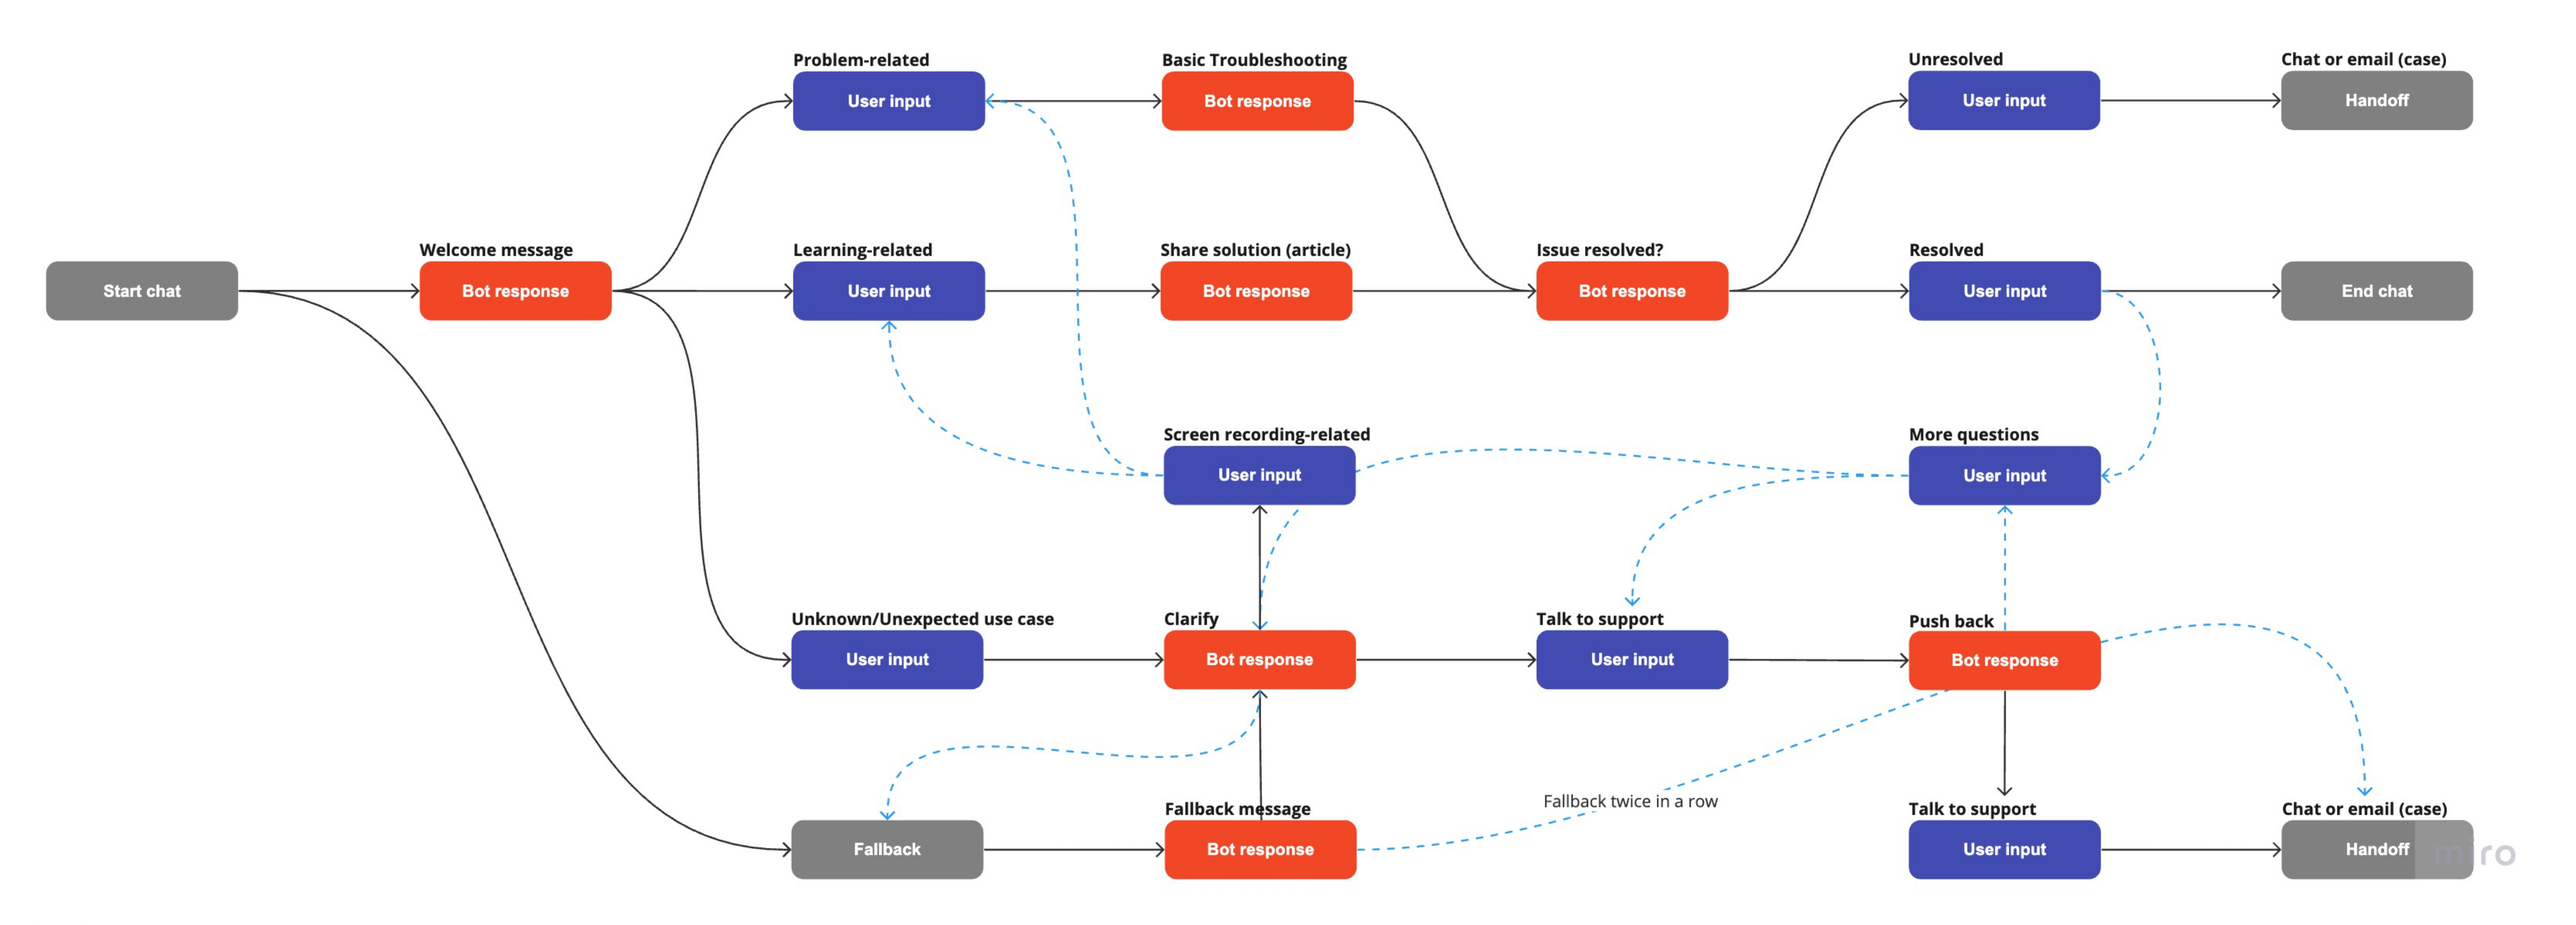
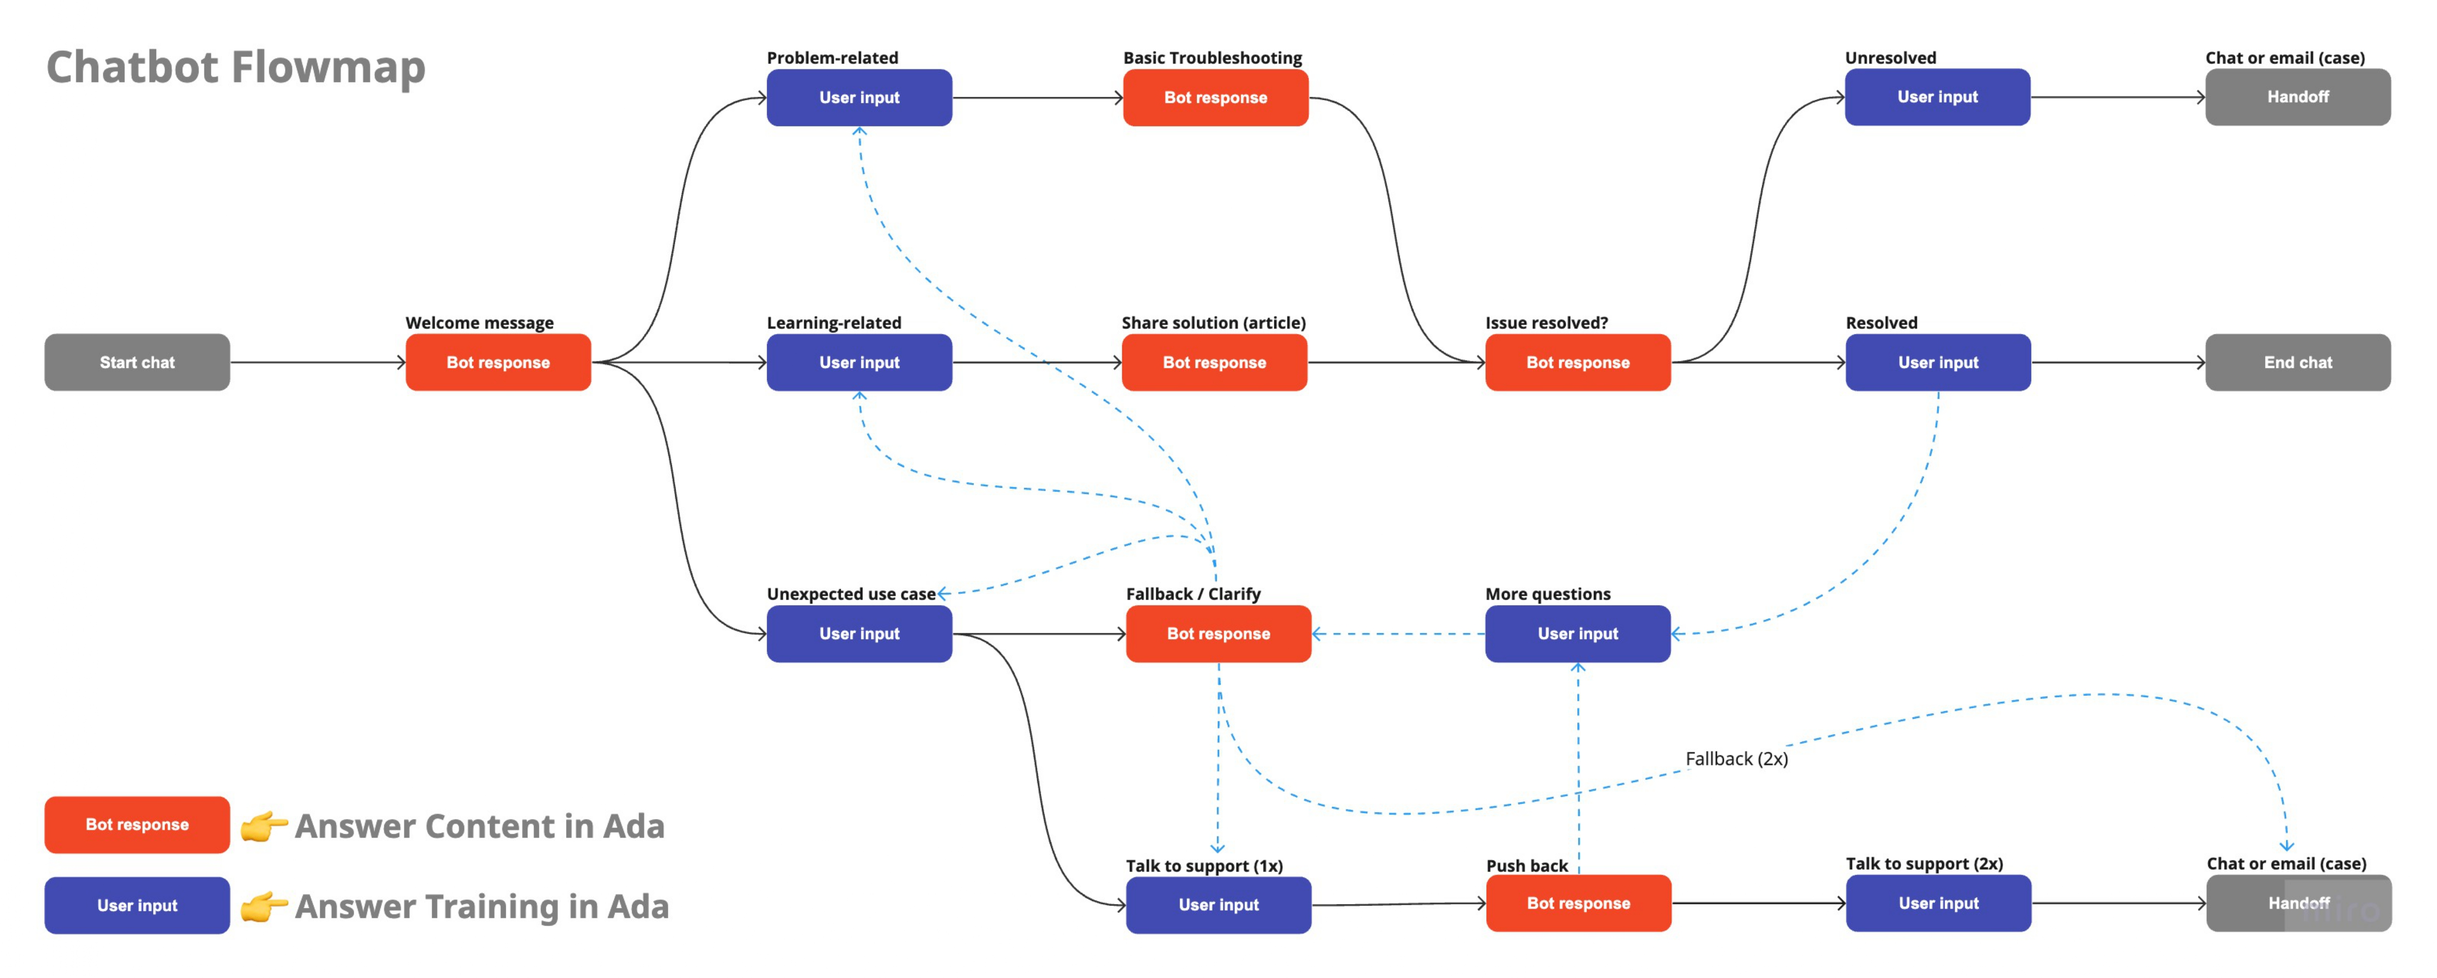
Updated flowmap

diff --git a/src/components/Flowmap.js b/src/components/Flowmap.js
@@ -3,11 +3,6 @@ import screeny from "./screeny.jpg"
 const Flowmap = () => {
     return (
         <div className="flowmap">
-            <h2>Chatbot Flowmap</h2>
-            <div className="legend">
-                <p>Bot Response &#128073; Answer Content in Ada</p>
-                <p>User Input &#128073; Answer Training in Ada</p>
-            </div>
             <div className="flowmap_container">
                 <img className="screeny" src={screeny} alt="flowmap" />
             </div>

diff --git a/src/components/Main.js b/src/components/Main.js
@@ -57,7 +57,6 @@ create flows and response paths for the chatbot.</li>
                     <li>Speak with human.</li>
                     <li>I want to upgrade my subscription.</li>
                 </ul>
-                <h3>Flowmap &#128071;</h3>
             </div>
             <div className="part_two">
                 <h2>Part Two - Instructions</h2>

diff --git a/src/index.css b/src/index.css
@@ -130,6 +130,10 @@ li {
   margin-bottom: 3rem;
 }
 
+.flowmap {
+  margin-bottom: 10rem;
+}
+
 .flowmap h2 {
   text-align: start;
   margin-left: 3rem;
